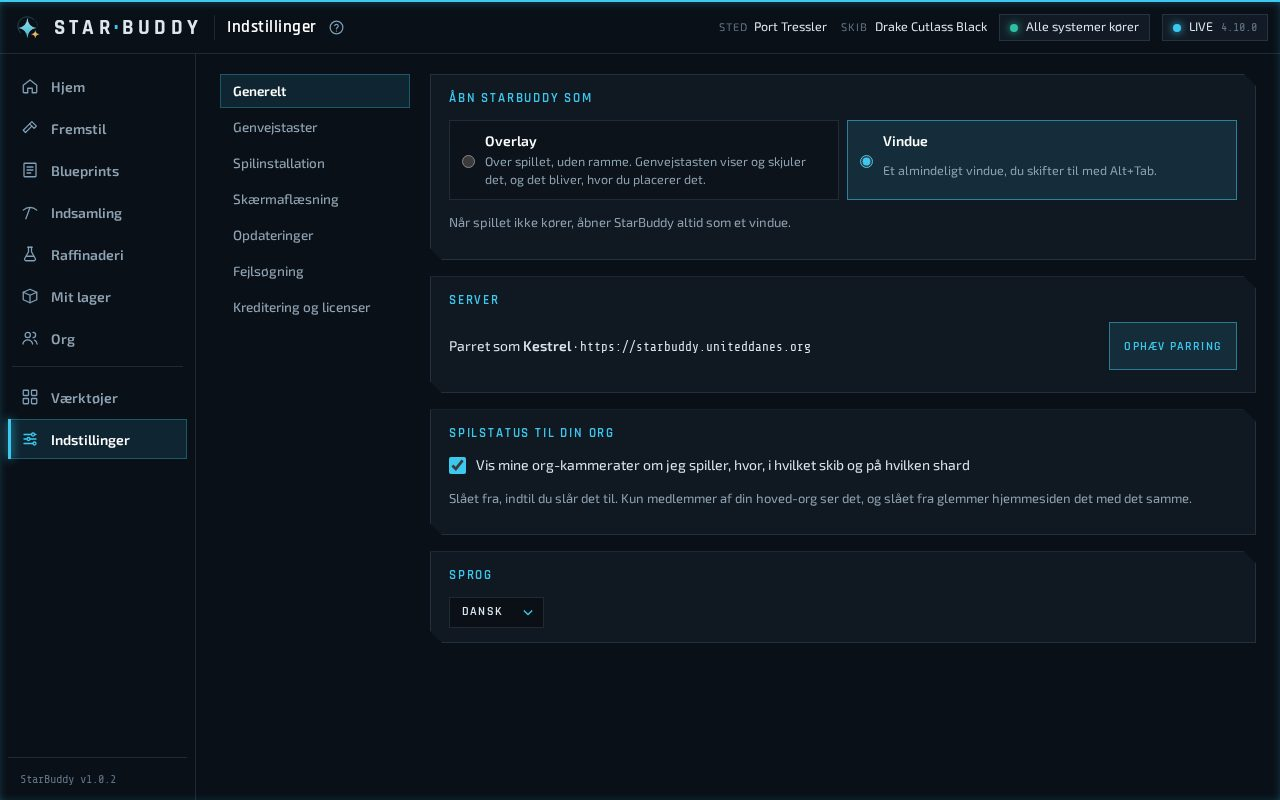
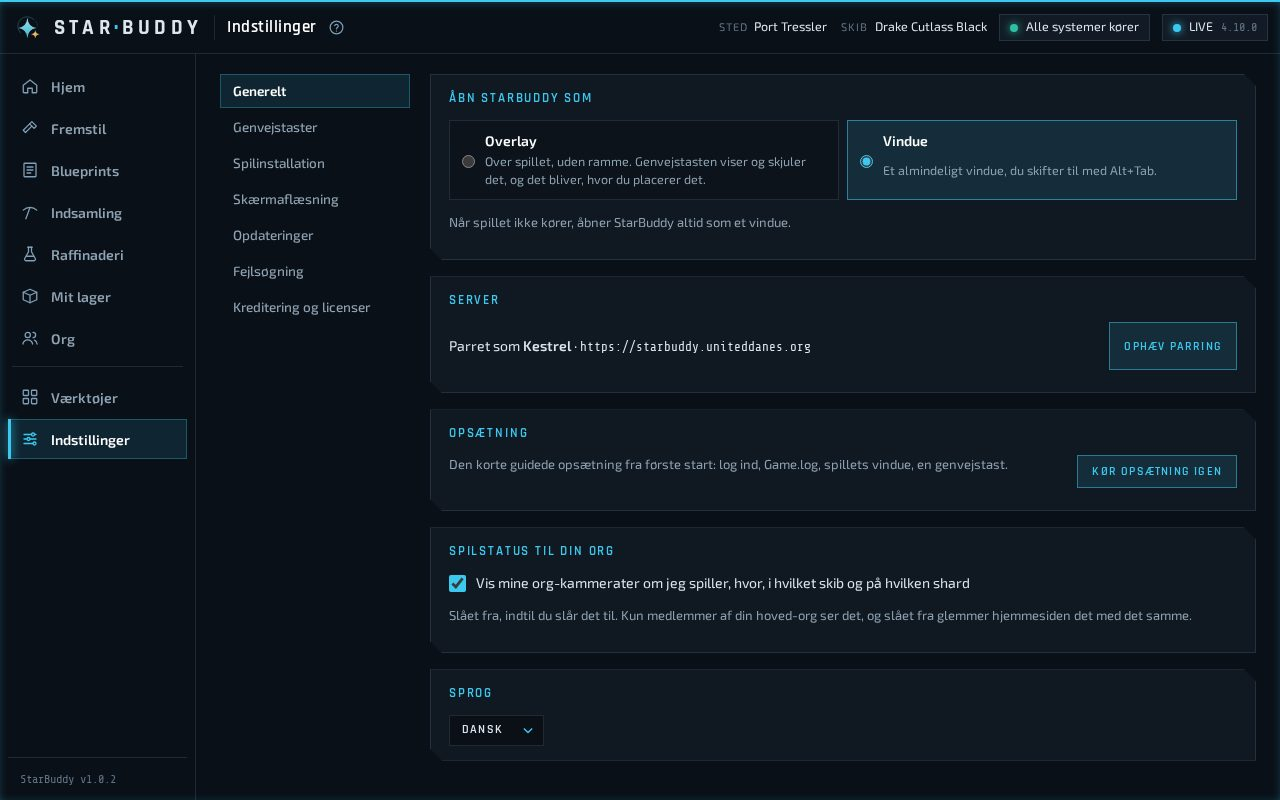
Help: the client's first-run setup and sign-in with the browser
Claude-Session: https://claude.ai/code/session_01N8m5xeVdG9FyChw6HwAHkV

diff --git a/frontend/src/help/content/da/client-setup.md b/frontend/src/help/content/da/client-setup.md
@@ -14,15 +14,27 @@ Knappen `Desktopklient` i topbjælken har en orange prik, indtil en af dine klie
 
 Klienten søger selv efter opdateringer og tilbyder at installere dem. Se [Indstillinger](client-settings).
 
-## 2. Par den med hjemmesiden
+## Første start
+
+![Opsætningen ved første start](screens/client-setup.jpg)
+
+Første gang du starter den, fører klienten dig gennem fire trin, ét kort ad gangen: `Log ind`, `Find Game.log`, `Vælg spillets vindue` og `Prøv en genvejstast`. Hvert trin kan springes over, og `Spring opsætningen over. Alt findes i Indstillinger.` går ud med det samme. Det sidste kort viser, hvad der er sat op, og hvad du sprang over. En org er valgfri: StarBuddy virker også for en solospiller.
+
+Kør den igen når som helst under `Indstillinger` › `Generelt` › **Opsætning** › `Kør opsætning igen`.
+
+## 2. Log ind
+
+![Log ind med browseren](screens/client-sign-in-browser.jpg)
+
+1. I opsætningen, eller under `Indstillinger` › `Generelt` › **Server**: tjek adressen (den er udfyldt), og tryk `Log ind med browser`.
+2. Din browser åbner hjemmesiden. Log ind med Discord, hvis den beder om det.
+3. Tjek, at siden viser samme kode som klienten, og tryk `Forbind`.
+
+Klienten viser så **Parret som** med dit navn. Koden virker i 10 minutter. `Åbn siden igen` åbner den igen, hvis du lukkede den. Fjern parringen under **Server**, eller fjern enheden på hjemmesiden.
+
+**Med en parringskode i stedet:** tryk `Indtast en parringskode i stedet` i klienten. Tryk `Generér parringskode` under `Profil & desktopklient` på hjemmesiden, skriv så adressen og koden i klienten, og tryk `Par`.
 
 ![Indstillinger › Generelt i klienten](screens/client-settings-general.jpg)
-
-1. Tryk `Generér parringskode` under `Profil & desktopklient` på hjemmesiden.
-2. Åbn `Indstillinger` › `Generelt` i klienten.
-3. Skriv hjemmesidens adresse (`https://…`) og koden under **Server**, og tryk `Par`.
-
-Koden virker én gang, i 10 minutter. Klienten viser så **Parret som** med dit navn. Du fjerner parringen her eller ved at fjerne enheden på hjemmesiden.
 
 ## 3. Peg den på spillet
 

diff --git a/frontend/src/help/content/en/client-setup.md b/frontend/src/help/content/en/client-setup.md
@@ -14,15 +14,27 @@ The `Desktop client` button in the top bar has an orange dot until a client of y
 
 The client checks for updates by itself and offers to install them. See [Settings](client-settings).
 
-## 2. Pair it with the website
+## The first start
+
+![The setup on the first start](screens/client-setup.jpg)
+
+The first time you start it, the client walks you through four steps, one card at a time: `Sign in`, `Find Game.log`, `Choose the game window` and `Try a hotkey`. Each one can be skipped, and `Skip setup. Everything is in Settings.` leaves straight away. The last card shows what is set up and what you skipped. An org is optional: StarBuddy works for a solo player too.
+
+Run it again any time from `Settings` › `General` › **Setup** › `Run setup again`.
+
+## 2. Sign in
+
+![Signing in with the browser](screens/client-sign-in-browser.jpg)
+
+1. In the setup, or under `Settings` › `General` › **Server**, check the address (it is filled in) and press `Sign in with browser`.
+2. Your browser opens the website. Sign in with Discord if it asks.
+3. Check that the page shows the same code as the client, and press `Connect`.
+
+The client then shows **Paired as** with your name. The code works for 10 minutes. `Open the page again` opens it once more if you closed it. Unpair under **Server**, or remove the device from the website.
+
+**With a pairing code instead:** press `Enter a pairing code instead` in the client. On the website, press `Generate pairing code` in `Profile & desktop client`, then type the address and the code in the client and press `Pair`.
 
 ![Settings › General in the client](screens/client-settings-general.jpg)
-
-1. On the website, in `Profile & desktop client`, press `Generate pairing code`.
-2. In the client, open `Settings` › `General`.
-3. Under **Server**, type the website's address (`https://…`) and the code, and press `Pair`.
-
-The code works once, for 10 minutes. The client then shows **Paired as** with your name. Unpair it here, or remove the device from the website.
 
 ## 3. Point it at the game
 

diff --git a/frontend/src/help/content/en/profile.md b/frontend/src/help/content/en/profile.md
@@ -12,8 +12,9 @@ Open your name in the top right corner and choose `Profile & desktop client`. Th
 ## Desktop client
 
 1. Download the client. The button picks the file for your system, and the other files are listed under it.
-2. Press `Generate pairing code`.
-3. In the client, open `Settings` › `General`, enter this website's address and the code, and press `Pair`. The code works once, for 10 minutes.
+2. Connect it: press `Sign in with browser` in the client, and `Connect` on the page that opens.
+
+Or with a pairing code: press `Generate pairing code` here, then in the client choose `Enter a pairing code instead`, enter this website's address and the code, and press `Pair`. The code works once, for 10 minutes.
 
 **Paired devices** lists every client paired to your account, with when it last synced. Remove one you no longer use. See [Install and pair the client](client-setup).
 

diff --git a/frontend/src/help/content/da/profile.md b/frontend/src/help/content/da/profile.md
@@ -12,8 +12,9 @@
 ## Desktop-klient
 
 1. Download klienten. Knappen vælger filen til dit system, og de andre filer står under den.
-2. Tryk `Generér parringskode`.
-3. Åbn `Indstillinger` › `Generelt` i klienten, skriv hjemmesidens adresse og koden, og tryk `Par`. Koden virker én gang, i 10 minutter.
+2. Forbind den: tryk `Log ind med browser` i klienten og `Forbind` på siden, der åbner.
+
+Eller med en parringskode: tryk `Generér parringskode` her, vælg så `Indtast en parringskode i stedet` i klienten, skriv hjemmesidens adresse og koden, og tryk `Par`. Koden virker én gang, i 10 minutter.
 
 **Parrede enheder** viser alle klienter, der er parret med din konto, og hvornår de sidst synkroniserede. Fjern en, du ikke bruger længere. Se [Installér og par klienten](client-setup).
 

diff --git a/frontend/src/help/content/en/client-settings.md b/frontend/src/help/content/en/client-settings.md
@@ -4,7 +4,7 @@ Open `Settings` in the client's menu.
 
 | Tab | What is there |
 | --- | --- |
-| General | Open StarBuddy as overlay or window, the server and pairing, game status sharing, and the language |
+| General | Open StarBuddy as overlay or window, the server and signing in, `Run setup again`, game status sharing, and the language |
 | Hotkeys | Every hotkey, and `Reset all bindings`. See [Windows over the game](client-overlays) |
 | Game install | Where the game is, `Scan log history` and the log watcher. See [Install and pair](client-setup) |
 | Screen reading | Screen reading on or off, the refinery order area, and sharing reads for training. See [Screen reading](client-screen-reading) |

diff --git a/frontend/src/help/content/da/client-settings.md b/frontend/src/help/content/da/client-settings.md
@@ -4,7 +4,7 @@
 
 | Fane | Hvad der er |
 | --- | --- |
-| Generelt | Åbn StarBuddy som overlay eller vindue, server og parring, deling af spilstatus, og sproget |
+| Generelt | Åbn StarBuddy som overlay eller vindue, server og log ind, `Kør opsætning igen`, deling af spilstatus, og sproget |
 | Genvejstaster | Alle genvejstaster, og `Nulstil alle genveje`. Se [Vinduer over spillet](client-overlays) |
 | Spilinstallation | Hvor spillet ligger, `Scan loghistorik` og logovervågningen. Se [Installér og par](client-setup) |
 | Skærmaflæsning | Skærmaflæsning til eller fra, raffinaderiordre-området og deling af aflæsninger til træning. Se [Skærmaflæsning](client-screen-reading) |
